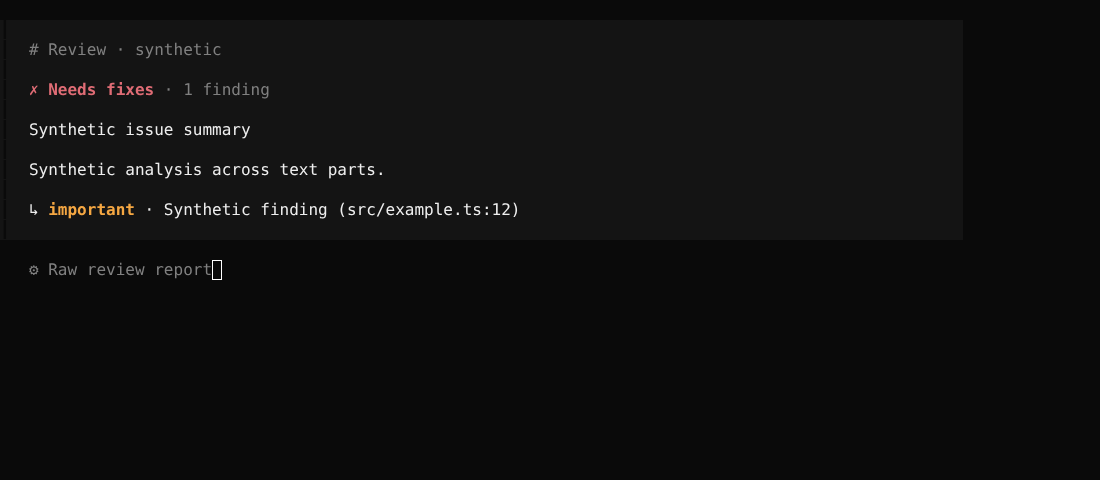
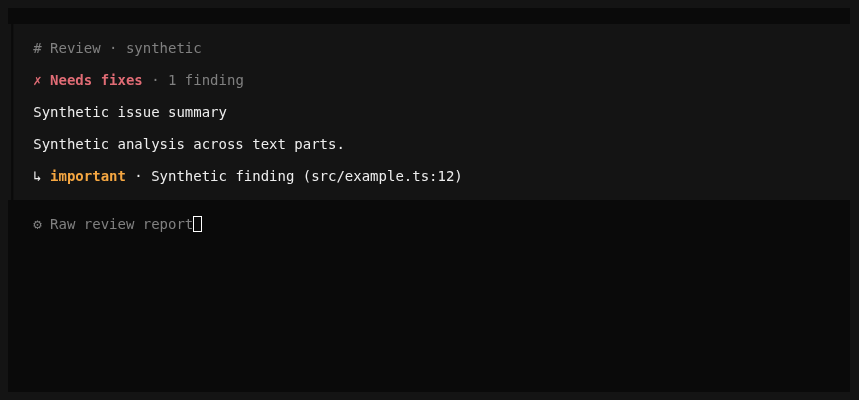
docs(tui): refresh synthetic review captures

diff --git a/docs/review-text-evidence/README.md b/docs/review-text-evidence/README.md
@@ -9,3 +9,5 @@ For example, from `packages/tui` with Bun installed:
 ```sh
 script -q -e -c 'stty cols 100 rows 24; bun test/cli/tui/review-text-capture.tsx multipart' /dev/null > multipart.ansi
 ```
+
+The four streams were recorded again from code at `d75acc0` after the conservative delivery-boundary changes. They were byte-for-byte identical to the committed streams; the PNGs were regenerated from the fresh recordings. These examples do not demonstrate the unresolved cross-message history case or background-review provenance.
